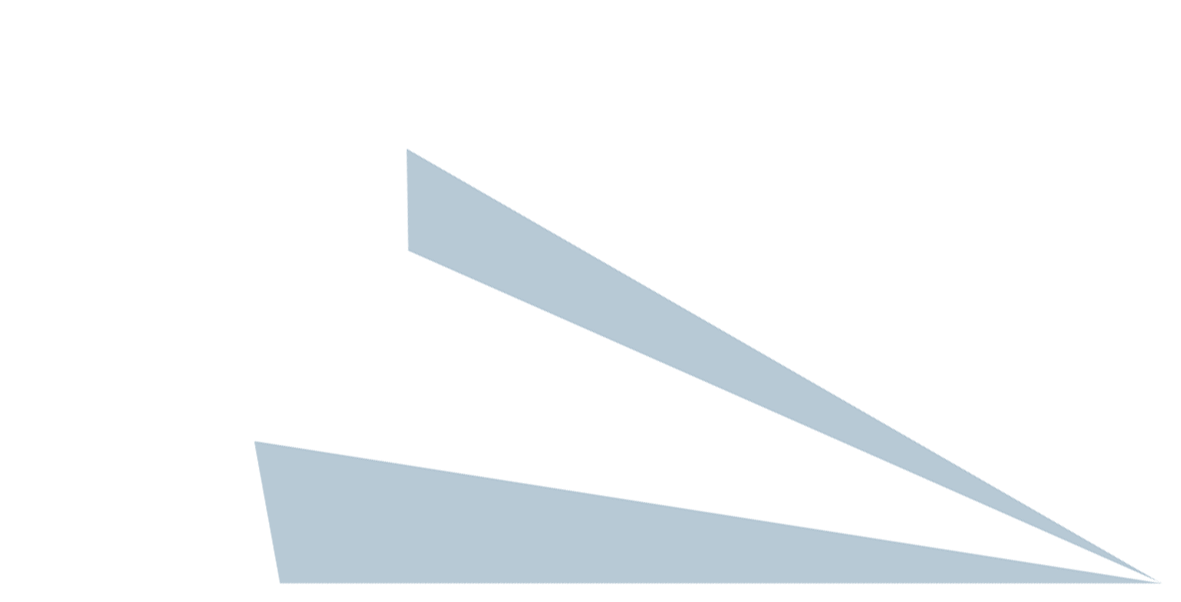
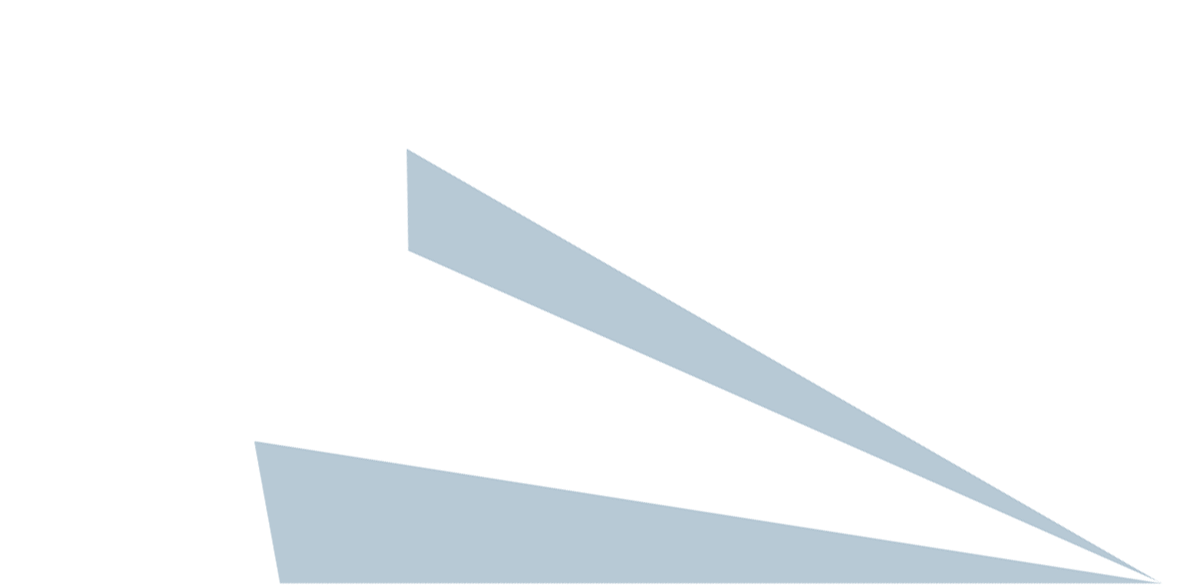
hw10-Update
Imported google font. Added modal and adjusted css and content.
Java script to remove sky when animation is completed.

diff --git a/week_10/week10_hw/index.html b/week_10/week10_hw/index.html
@@ -1,47 +1,95 @@
 <!doctype html>
 <html lang="en">
-  <head>
+
+<head>
     <!-- Required meta tags -->
     <meta charset="utf-8">
     <meta name="viewport" content="width=device-width, initial-scale=1, shrink-to-fit=no">
 
     <!-- Bootstrap CSS -->
-    <link rel="stylesheet" href="https://stackpath.bootstrapcdn.com/bootstrap/4.4.1/css/bootstrap.min.css" integrity="sha384-Vkoo8x4CGsO3+Hhxv8T/Q5PaXtkKtu6ug5TOeNV6gBiFeWPGFN9MuhOf23Q9Ifjh" crossorigin="anonymous">
+    <link rel="stylesheet" href="https://stackpath.bootstrapcdn.com/bootstrap/4.4.1/css/bootstrap.min.css"
+        integrity="sha384-Vkoo8x4CGsO3+Hhxv8T/Q5PaXtkKtu6ug5TOeNV6gBiFeWPGFN9MuhOf23Q9Ifjh" crossorigin="anonymous">
+
     <!-- MAIN CSS -->
     <link href="main.css" rel="stylesheet">
 
-    <title>Send A Letter</title>
+    <title>A Letter For You</title>
 </head>
-<body class="text-center">
-    <div class="plane"><img class="plane-shadow" src="assets/plane.png" alt="paper plane"></div>
-    <div class="sky-fade"><div class="swivle"></div></div>
-  <div class="cover-container d-flex w-100 h-100 p-3 mx-auto flex-column">
-<header class="masthead mb-auto">
-  <div class="inner">
-    <h3 class="masthead-brand">Cover</h3>
-    <nav class="nav nav-masthead justify-content-center">
-      <a class="nav-link active" href="#">Home</a>
-      <a class="nav-link" href="#">Features</a>
-      <a class="nav-link" href="#">Contact</a>
-    </nav>
-  </div>
-</header>
 
-<main role="main" class="inner cover">
-  <h1 class="cover-heading">Cover your page.</h1>
-  <p class="lead">Cover is a one-page template for building simple and beautiful home pages. Download, edit the text, and add your own fullscreen background photo to make it your own.</p>
-  <p class="lead">
-    <a href="#" class="btn btn-lg btn-secondary">Learn more</a>
-  </p>
-</main>
-
-<footer class="mastfoot mt-auto"></footer>
+<div class="sky-fade">
+    <div class="swivle"></div>
 </div>
+
+<body class="text-center">
+    <div class="cover-container d-flex w-100 h-100 p-3 mx-auto flex-column">
+        <header class="masthead">
+            <div class="inner">
+                <h3 class="masthead-brand">Hello</h3>
+                <nav class="nav nav-masthead justify-content-center">
+                    <a class="nav-link active" href="#">Letter</a>
+                </nav>
+            </div>
+        </header>
+
+        <main class="inner cover mb-auto mt-auto">
+            <div class="container">
+                <div class="row">
+                    <div class="col">
+                        <h1 class="cover-heading">Oh look! There's a letter.</h1>
+                        <p class="lead">
+                        </p>
+                    </div>
+                </div>
+                <div class="row">
+                    <div class="col mt-2">
+                        <button type="button" class="btn btn-primary" data-toggle="modal" data-target="#exampleModalCenter">
+                            Open Letter
+                          </button>
+                    </div>
+                </div>
+            </div>
+
+        </main>
+
+        <footer class="mastfoot mt-auto"></footer>
+    </div>
+
+    <!-- MODAL -->
+    <div class="modal fade" id="exampleModalCenter" tabindex="-1" role="dialog" aria-labelledby="exampleModalCenterTitle" aria-hidden="true">
+        <div class="modal-dialog modal-dialog-centered" role="document">
+          <div class="modal-content">
+            <div class="modal-header">
+              <button type="button" class="close" data-dismiss="modal" aria-label="Close">
+                <span aria-hidden="true">&times;</span>
+              </button>
+            </div>
+            <div class="modal-body">
+                <p class="lead"> Happy Mother's Day!</p>
+              <p>Sending lots of love!</p>
+             <p>Vianey</p>
+              <div class="heart" data-dismiss="modal" type="button"></div>
+            </div>
+          </div>
+        </div>
+      </div>
+    <!-- /MODAL -->
+    <div class="plane"><img class="plane-shadow" src="assets/plane.png" alt="paper plane"></div>
 
     <!-- Optional JavaScript -->
     <!-- jQuery first, then Popper.js, then Bootstrap JS -->
-    <script src="https://code.jquery.com/jquery-3.4.1.slim.min.js" integrity="sha384-J6qa4849blE2+poT4WnyKhv5vZF5SrPo0iEjwBvKU7imGFAV0wwj1yYfoRSJoZ+n" crossorigin="anonymous"></script>
-    <script src="https://cdn.jsdelivr.net/npm/popper.js@1.16.0/dist/umd/popper.min.js" integrity="sha384-Q6E9RHvbIyZFJoft+2mJbHaEWldlvI9IOYy5n3zV9zzTtmI3UksdQRVvoxMfooAo" crossorigin="anonymous"></script>
-    <script src="https://stackpath.bootstrapcdn.com/bootstrap/4.4.1/js/bootstrap.min.js" integrity="sha384-wfSDF2E50Y2D1uUdj0O3uMBJnjuUD4Ih7YwaYd1iqfktj0Uod8GCExl3Og8ifwB6" crossorigin="anonymous"></script>
-  </body>
+    
+    <script src="https://code.jquery.com/jquery-3.4.1.slim.min.js"
+    integrity="sha384-J6qa4849blE2+poT4WnyKhv5vZF5SrPo0iEjwBvKU7imGFAV0wwj1yYfoRSJoZ+n" crossorigin="anonymous">
+  </script>
+  <script src="https://cdn.jsdelivr.net/npm/popper.js@1.16.0/dist/umd/popper.min.js"
+    integrity="sha384-Q6E9RHvbIyZFJoft+2mJbHaEWldlvI9IOYy5n3zV9zzTtmI3UksdQRVvoxMfooAo" crossorigin="anonymous">
+  </script>
+  <script src="https://stackpath.bootstrapcdn.com/bootstrap/4.4.1/js/bootstrap.min.js"
+    integrity="sha384-wfSDF2E50Y2D1uUdj0O3uMBJnjuUD4Ih7YwaYd1iqfktj0Uod8GCExl3Og8ifwB6" crossorigin="anonymous">
+  </script>
+    
+
+    <script src="script.js"></script>
+</body>
+
 </html>

diff --git a/week_10/week10_hw/main.css b/week_10/week10_hw/main.css
@@ -1,11 +1,12 @@
-/*
- * Base structure
- */
+@import url('https://fonts.googleapis.com/css2?family=Josefin+Sans:wght@400;500;600&display=swap');
 
+
+/* BASE STRUCTURE START */
 html,
 body {
   height: 100%;
   background-color: #333;
+  background-image: linear-gradient(to bottom right, #E5F2E3, #75DDDD 60%);
 }
 
 body {
@@ -14,16 +15,42 @@ body {
   color: #fff;
   text-shadow: 0 .05rem .1rem rgba(0, 0, 0, .5);
   box-shadow: inset 0 0 5rem rgba(0, 0, 0, .5);
+  font-family: 'Josefin Sans', sans-serif;
 }
 
 .cover-container {
   max-width: 42em;
 }
 
+.btn-primary {
+    color: #fff;
+    background-color: #E2C042;
+    border-color: #E2C042;
+}
 
-/*
- * Header
- */
+.btn-primary:hover {
+    color: #E2C042;
+    background-color: #fff;
+    border-color: #E2C042;
+    border-width: 4px;
+font-weight: 800;
+}
+
+.btn-primary:not(:disabled):not(.disabled).active, .btn-primary:not(:disabled):not(.disabled):active, .show > .btn-primary.dropdown-toggle {
+    color: #fff;
+    background-color: #E2C042;
+    border-color: #E2C042;
+}
+
+.btn-primary.focus, .btn-primary:focus {
+    color: #fff;
+    background-color: #E2C042;
+    border-color: #E2C042;
+    box-shadow: 0 0 0 .2rem     rgba(226, 192, 66, 0.58);
+}
+/* BASE STRUCTURE END*/
+
+/* HEADER START*/
 .masthead {
   margin-bottom: 2rem;
 }
@@ -54,6 +81,10 @@ body {
   border-bottom-color: #fff;
 }
 
+.mb-4, .my-4 {
+    margin-bottom: 8.5rem !important;
+}
+
 @media (min-width: 48em) {
   .masthead-brand {
     float: left;
@@ -62,11 +93,9 @@ body {
     float: right;
   }
 }
+/* HEADER END */
 
-
-/*
- * Cover
- */
+/* COVER START */
 .cover {
   padding: 0 1.5rem;
 }
@@ -74,19 +103,21 @@ body {
   padding: .75rem 1.25rem;
   font-weight: 700;
 }
+/* COVER END */
 
-/* Animation Swivle Background */
+/* ANIMATION: SKY*/
 .swivle {
     width: 100%;
     height: 100%;
-    position: absolute;
     background-image: url('assets/sky.jpg');
     background-position: left;
     animation-fill-mode: forwards;
     animation-duration: 8s;
     animation-name: left-right;
-    background-size: contain;
+    background-size: cover;
     animation-iteration-count: infinite;
+    z-index: 5;
+    position: absolute;
 }
   
   @keyframes left-right {
@@ -94,13 +125,14 @@ body {
   }
 
 
-  /* Animation fade sky to transparent */
+  /*ANIMATION: SKY TRANSPARENT */
 .sky-fade {
     background-color: lightblue;
     animation-duration: 3s;
     animation-delay: 7s;
     animation-fill-mode: forwards;
     animation-name: fade;
+    z-index: 5;
 }
   
   @keyframes fade {
@@ -108,7 +140,7 @@ body {
     to {opacity :0;}
   }
 
-  /* Animate plane left */
+  /* ANIMATION: PLANE LEFT */
   .plane {
     position: absolute;
     left: 0;
@@ -119,13 +151,19 @@ body {
     z-index: 3;
     animation-fill-mode: forwards;
     animation-timing-function: ease-in-out;
+    z-index: 7;
+    background-size: cover;
+  }
+
+  .plane:hover{
+    transform: rotate(-5deg);
   }
   
   @keyframes flyleft {
-    0% {left :-20%; top: 25%}
-    35% {left :10%; top: 44%}
-    55% {left :25%; top: 35%}
-    100% {left :70%; top: 65%}
+    0% {left :-50%; top: 25%}
+    35% {left :5%; top: 44%}
+    55% {left :10%; top: 35%}
+    100% {left: 27%; top: 72%;}
   }
 
   .plane-shadow {
@@ -138,4 +176,79 @@ body {
   
   @keyframes shadow {
     100% {box-shadow: 0px 18px 18px -14px rgba(115, 125, 130, 0.82);}
+  }
+
+/* MODAL START */
+.modal-content {
+    background-image: url(assets/paper.jpg);
+    background-position: center;
+    background-size: cover;
+    border: 0px solid rgba(0,0,0,.2);
+border-radius: .1rem;
+}
+
+.modal-title {
+    margin-bottom: 0;
+    line-height: 1.3;
+}
+
+.modal-header .close {
+    position: absolute;
+    top: 20px;
+    right: 20px;
+}
+
+.modal-header{
+    border-bottom: none;
+}
+
+.modal-footer{
+    border-top: none;
+}
+
+.modal-body p{
+    color: #3A3E41;
+    text-shadow: none;
+}
+
+.lead {
+    font-size: 2rem;
+}
+
+.heart {
+    background-color: #F26B6C;
+    height: 30px;
+    transform: rotate(-45deg);
+    width: 30px;
+    margin-left: auto;
+    margin-right: 40px;
+    margin-bottom: 20px;
+  }
+
+  .heart:before,
+.heart:after {
+  content: "";
+  background-color: #F26B6C;
+  border-radius: 50%;
+  height: 30px;
+  position: absolute;
+  width: 30px;
+}
+
+.heart:before {
+    top: -15px;
+    left: 0;
+  }
+
+  @media(min-width:960px) {
+    .swivle {
+        background-size: cover;
+    }
+
+    @keyframes flyleft {
+        0% {left :-20%; top: 25%}
+        35% {left :10%; top: 44%}
+        55% {left :25%; top: 35%}
+        100% {left :70%; top: 65%}
+      }
   }

diff --git a/week_10/week10_hw/script.js b/week_10/week10_hw/script.js
@@ -1,0 +1,5 @@
+$(document).ready(function() {
+
+$('.sky-fade').bind('animationend webkitAnimationEnd oAnimationEnd MSAnimationEnd', function(e) { $(this).remove(); });
+
+  });
